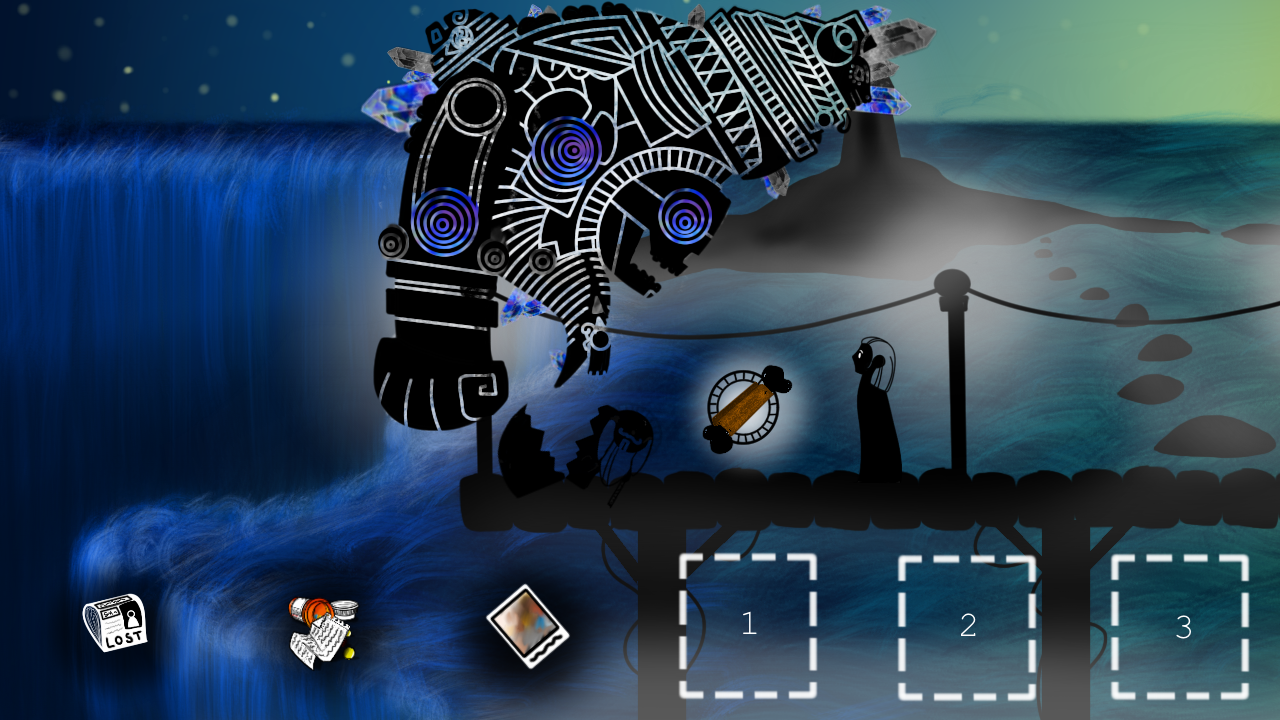
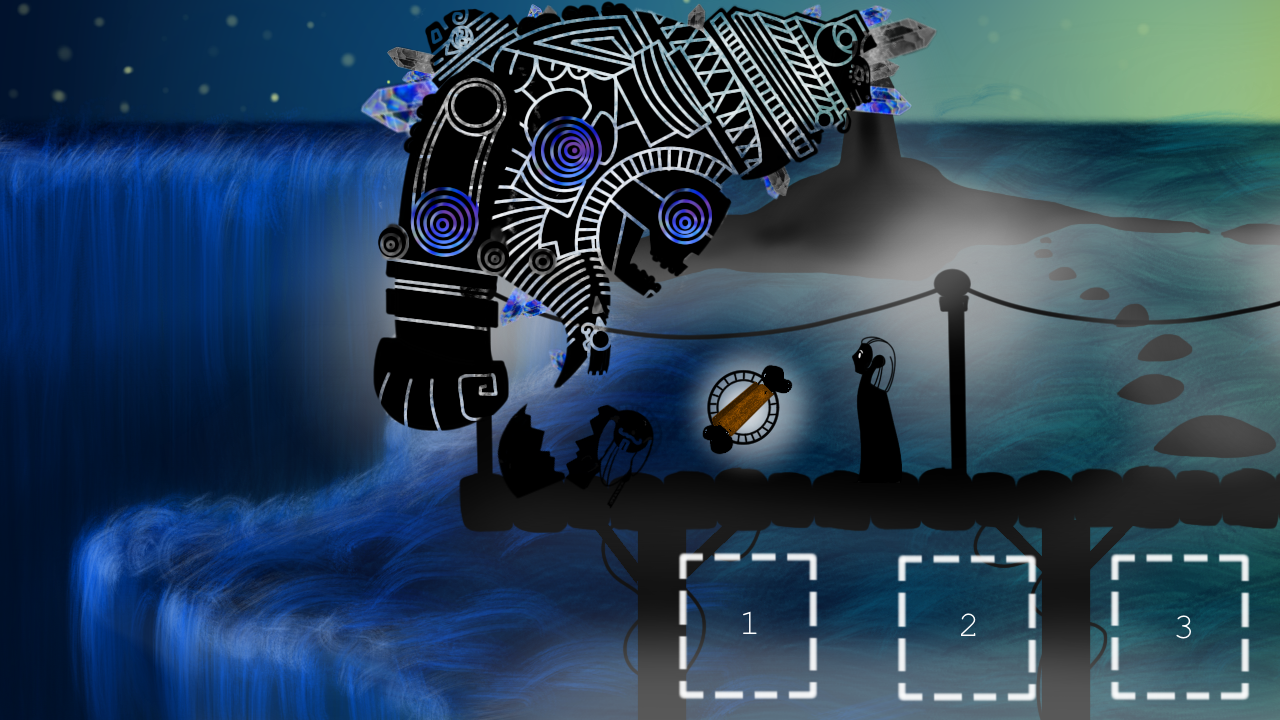
arcade flags

Changed region(s): [[0.3438, 0.7639, 0.5, 1.0], [0.1875, 0.7944, 0.3125, 0.9778], [0.0312, 0.7639, 0.1562, 0.9778]]

diff --git a/core/src/com/tec/goback/Arcade.java b/core/src/com/tec/goback/Arcade.java
@@ -61,7 +61,7 @@ class Arcade extends Frame{
     private float hit = 0;
     private float match = 0;
 
-    private Preferences stats = Gdx.app.getPreferences("STATS");
+
 
     //CURRENT COLOR ORB
     private orbColor currentColor = orbColor.YELLOW;
@@ -120,6 +120,8 @@ class Arcade extends Frame{
     private Input input;
 
     private Preferences soundPreferences = Gdx.app.getPreferences("My Preferences");
+    private Preferences stats = Gdx.app.getPreferences("STATS");
+    private Preferences level = Gdx.app.getPreferences("getLevel");
     boolean flag;
 
     private Box2DDebugRenderer debugRenderer;
@@ -132,11 +134,9 @@ class Arcade extends Frame{
 
     @Override
     public void show() {
-        //d = pref.getInteger("level");
-        d = 3;
+        pref.getInteger("level");
         debugRenderer = new Box2DDebugRenderer();
-        bossFight = ArcadeValues.bossFightFlag;
-        bossFight = true;
+        level.getBoolean("boss");
         arcadeMultiplier = !bossFight ? ArcadeValues.arcadeMultiplier : 1;
         super.show();
         textureInit();
@@ -179,8 +179,8 @@ class Arcade extends Frame{
                 pelletBlue = aManager.get("PELLET/ATAQUEBluePellet.png");
 
 
-                background = new Texture("HARBOR/GoBackHARBORPanoramic.png");
-                //background = new Texture("MOUNTAINS/GoBackMOUNTAINSPanoramic.png"); //switch
+                //background = new Texture("HARBOR/GoBackHARBORPanoramic.png");
+                background = new Texture("MOUNTAINS/GoBackMOUNTAINSPanoramic.png"); //switch
                 break;
             case 3:
                 orbYellow = aManager.get("Interfaces/GAMEPLAY/ARCADE/ARCADEYellowOrb.png");
@@ -194,8 +194,8 @@ class Arcade extends Frame{
                 pelletBlue = aManager.get("PELLET/ATAQUEBluePellet.png");
                 pelletRed = aManager.get("PELLET/ATAQUERedPellet.png");
 
-                background = new Texture("HARBOR/GoBackHARBORPanoramic.png");
-                //background = new Texture("HARBOR/GoBackWOODSPanoramic.png"); //switch
+                //background = new Texture("HARBOR/GoBackHARBORPanoramic.png");
+                background = new Texture("UNDERGROUND/UNDERGROUNDArcade.png"); //switch
                 break;
         }
 
@@ -457,15 +457,16 @@ class Arcade extends Frame{
         }
         batch.begin();
         batch.setProjectionMatrix(super.camera.combined);
-        debugRenderer.render(world, debugMatrix);
+        //debugRenderer.render(world, debugMatrix);
         batch.end();
     }
 
     private void drawShit(){
-        batch.draw(background,-2560,0);
+        if(d == 1 || d == 2)batch.draw(background,-2560,0);
+        else batch.draw(background,0,0);
         sophie.setColor(1.0f,1.0f,1.0f,0.8f);
         sophie.setPosition(ArcadeValues.pelletOriginX-100
-                , ArcadeValues.pelletOriginY-30);
+                , ArcadeValues.pelletOriginY-35);
         sophie.draw(batch);
         drawBodies();
     }
@@ -529,6 +530,7 @@ class Arcade extends Frame{
     }
 
     private void win(float delta){
+
         dialoguetime += delta;
         if (dialoguetime < 2.5f) {
             dialogue.makeText(glyph, batch, "You have proven yourself worthy of going on forward.\n You now carry new knowledge", camera.position.x);

diff --git a/core/src/com/tec/goback/LevelEND.java b/core/src/com/tec/goback/LevelEND.java
@@ -15,6 +15,8 @@ import com.badlogic.gdx.scenes.scene2d.ui.Dialog;
 import com.badlogic.gdx.scenes.scene2d.ui.Image;
 import com.badlogic.gdx.scenes.scene2d.utils.DragListener;
 
+import java.util.ArrayList;
+
 import static com.badlogic.gdx.scenes.scene2d.ui.Table.Debug.actor;
 
 /*
@@ -28,13 +30,14 @@ class LevelEND extends Frame {
 
     private Stage stage;
 
-    //    private Texture boneTx;
-
     private Image bg;
+
+    private ArrayList<Image> arr = new ArrayList<Image>();
     private Image newsPaper;
     private Image photo;
     private Image note;
 //    private Image bone;
+
 
 
 
@@ -63,7 +66,7 @@ class LevelEND extends Frame {
         Texture newsPaperTx = new Texture("CLUES/Newspaper/CLUESNewspaper.png");
         Texture photoTx = new Texture("CLUES/Photo/CLUESPhoto.png");
         Texture noteTx = new Texture("CLUES/Note/CLUESNote.png");
-//        boneTx = new Texture("CLUES/Bone/CLUESBone.png");
+//        Texture boneTx = new Texture("CLUES/Bone/CLUESBone.png");
 
         bg = new Image(bgTx);
 
@@ -71,6 +74,8 @@ class LevelEND extends Frame {
         photo = new Image(photoTx);
         note = new Image(noteTx);
 //        bone = new Image(boneTx);
+
+        arr.add(newsPaper); arr.add(photo); arr.add(note);
 
         newsPaper.addListener(new DragListener() {
             public void drag(InputEvent event, float x, float y, int pointer) {
@@ -93,6 +98,10 @@ class LevelEND extends Frame {
 //            }
 //        });
 
+        newsPaper.setPosition(198,10);
+        photo.setPosition(327,117);
+        note.setPosition(410,10);
+
         stage.addActor(bg);
         stage.addActor(newsPaper);
         stage.addActor(photo);
@@ -107,9 +116,26 @@ class LevelEND extends Frame {
     @Override
     public void render(float delta) {
         cls();
+
+        if(squaresFilled()) state = GameState.WON;
+
         if(state == GameState.PLAYING) {
             stage.draw();
+        }else if(state == GameState.WON){
+            stage.draw();
         }
+    }
+
+    private boolean squaresFilled(){
+        boolean first = false, second = false, third = false;
+        float x, y;
+        for(Image i: arr){
+            x = i.getX()+i.getWidth()/2; y = i.getY()+i.getHeight()/2;
+            if( (x > 680 && x < 815) && (y > 25 && y <162) ) first = true;
+            if( (x > 902 && x < 1030) && (y > 25 && y <162) ) second = true;
+            if( (x > 1115 && x < 1247) && (y > 25 && y <162) ) third = true;
+        }
+        return (first && second) && third;
     }
 
     @Override
